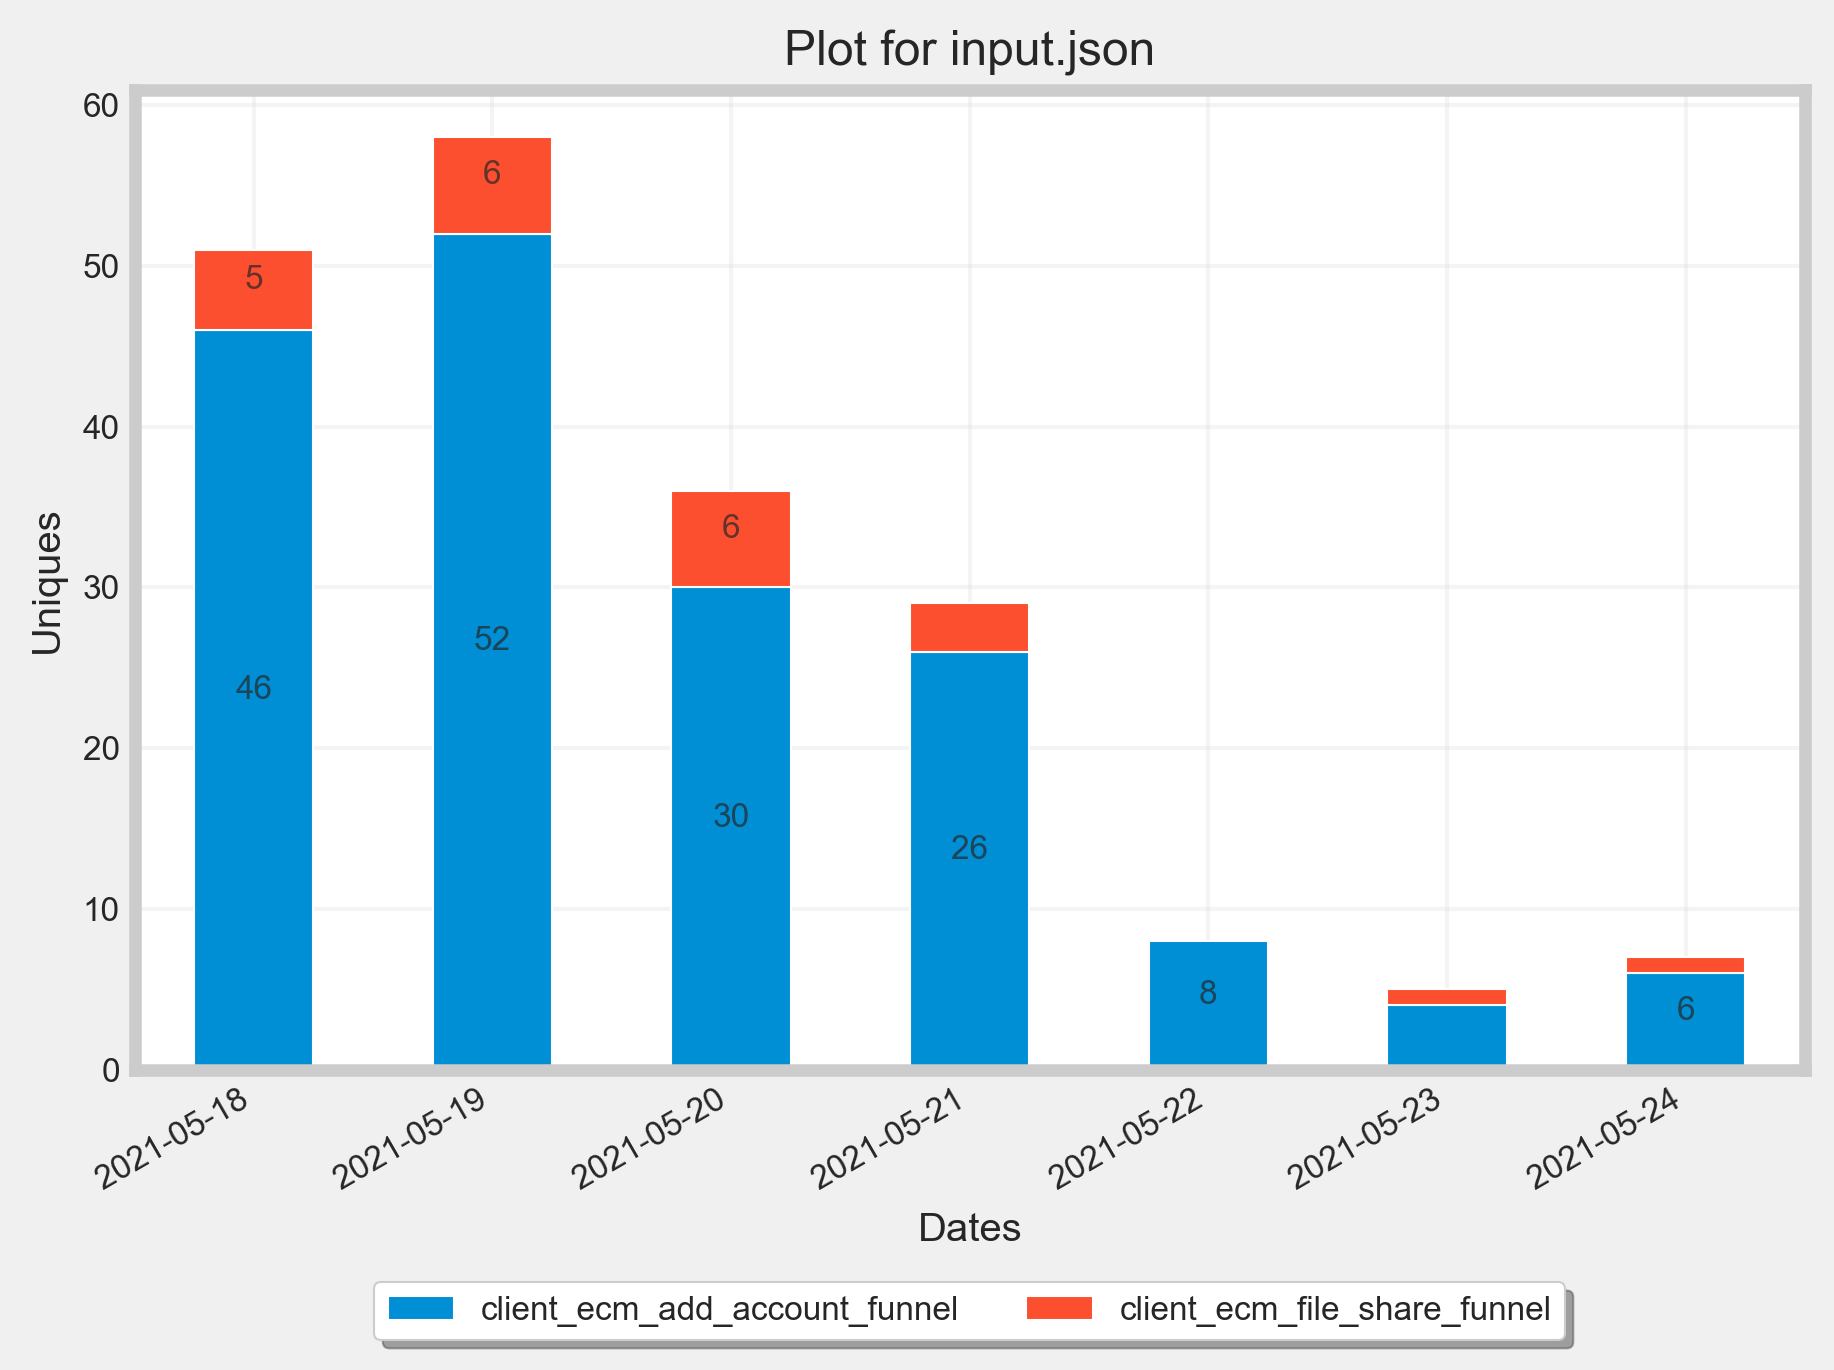
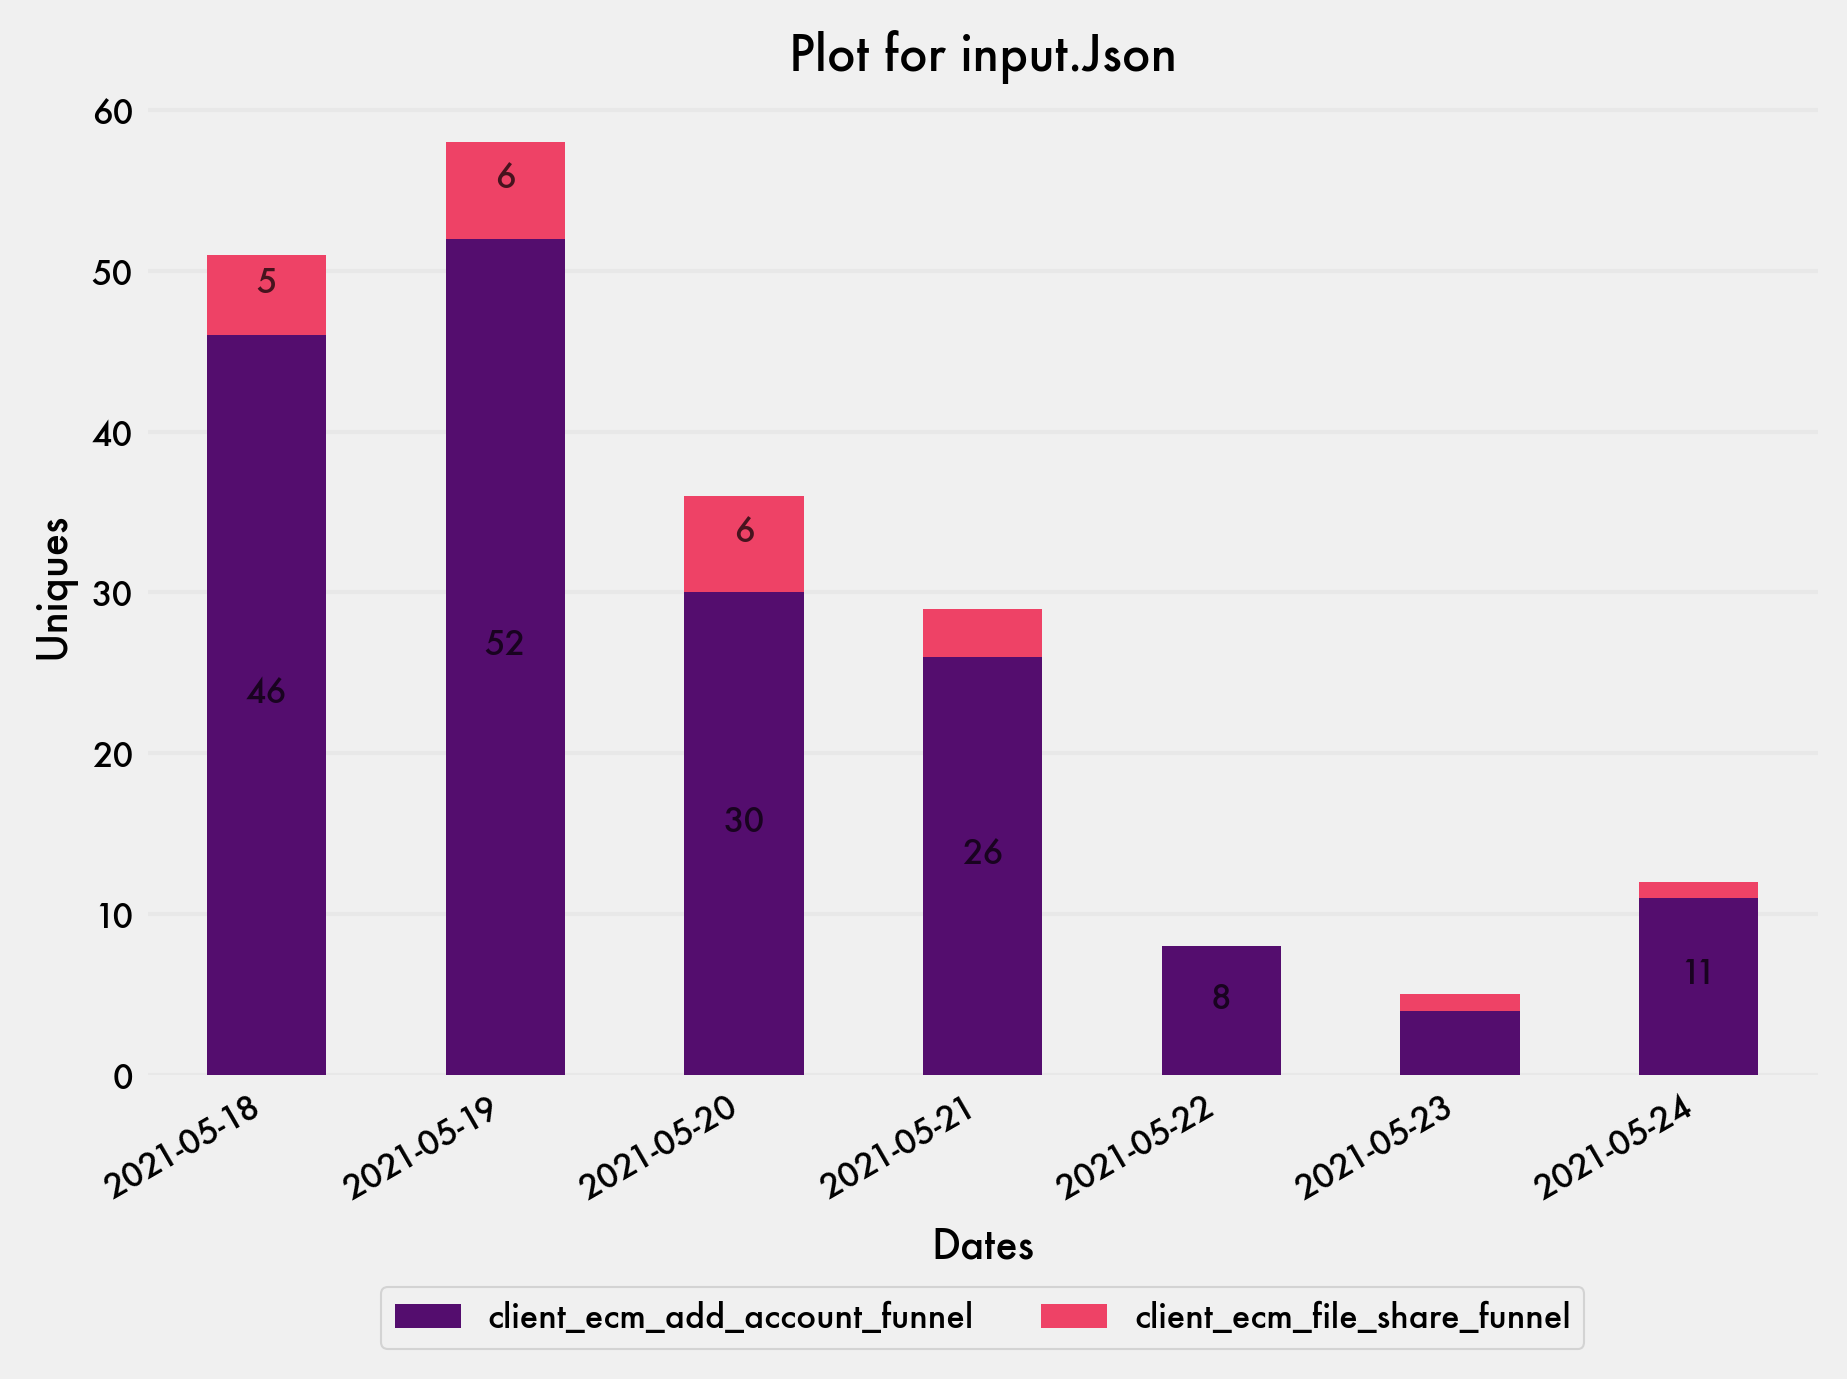
minor changes to graphs

diff --git a/AmplitudeInteraction.py b/AmplitudeInteraction.py
@@ -8,6 +8,7 @@ matplotlib.use('Agg')
 import matplotlib.pyplot as plt
 import seaborn as sns
 import cexprtk
+import os
 iValues = {"daily" : '1', "weekly" : '7', "monthly" : '30', "hourly" : '-3600000', "realtime" : '-300000'}
 measures = {'uniques' : 'uniques', 'event totals' : 'totals', 'active %' : 'pct_dau', 'average' : 'average'}
 keyFile = open(r'./.secret/api_keys.txt','r')
@@ -71,9 +72,13 @@ def getErrorPlots(inputJsonFileName):
             df = df.join(i)
 
     fig, ax = plt.subplots()
+    xlabel = '' if (':' in df.index[0]) else 'Dates'
     plt.style.use('fivethirtyeight')
+    csfont = {'fontname':'Futura'}
+    palette = ['#540D6E', '#EE4266', '#FFD23F', '#1F271B', '#F0F0F0']
+    plt.rcParams["font.family"] = csfont['fontname']
     plt.rcParams['font.size'] = '8'
-    sns.set_style('whitegrid')
+    # sns.set_style('ticks')
     if chartType in ['bar', 'line']:
         if chartType == 'line':
             ax = df.plot(kind='line', marker='o')
@@ -82,17 +87,20 @@ def getErrorPlots(inputJsonFileName):
             rects = ax.patches
             autolabelbar(rects, ax, False)
     elif chartType == 'stacked bar':
-        ax = df.plot.bar(stacked=True)
+        ax = df.plot.bar(stacked=True, color=palette)
         rects = ax.patches
         autolabelbar(rects, ax, True)
     elif chartType == 'stacked area':
         ax = df.plot.area(alpha=0.5)
-    ax.grid(alpha=0.2, b=True)
+    ax.grid(alpha=0.2, b=True, axis='y')
+    ax.grid(alpha=0, b=True, axis='x')
+    plt.tick_params(left = False, bottom = False)
+    sns.despine(left=True, bottom=True)
     ax.figure.autofmt_xdate()
-    plt.xlabel('Dates')
-    plt.ylabel(inputJson['body']['measures'].title())
+    plt.xlabel(xlabel, **csfont)
+    plt.ylabel(inputJson['body']['measures'].title(), **csfont)
     plt.legend(loc='upper center', bbox_to_anchor=(0.5, -0.2),
-           fancybox=True, shadow=True, ncol=5)
+           fancybox=True, ncol=5)
     plt.title('Plot for ' + inputJsonFileName)
     plt.savefig(plotName, dpi=300, bbox_inches='tight')
     plt.close(fig)
@@ -149,3 +157,4 @@ def CheckAlertStatus(inputJsonFileName):
                     return (True, threshold)
                 break
     return [False]
+getErrorPlots('input.Json')
